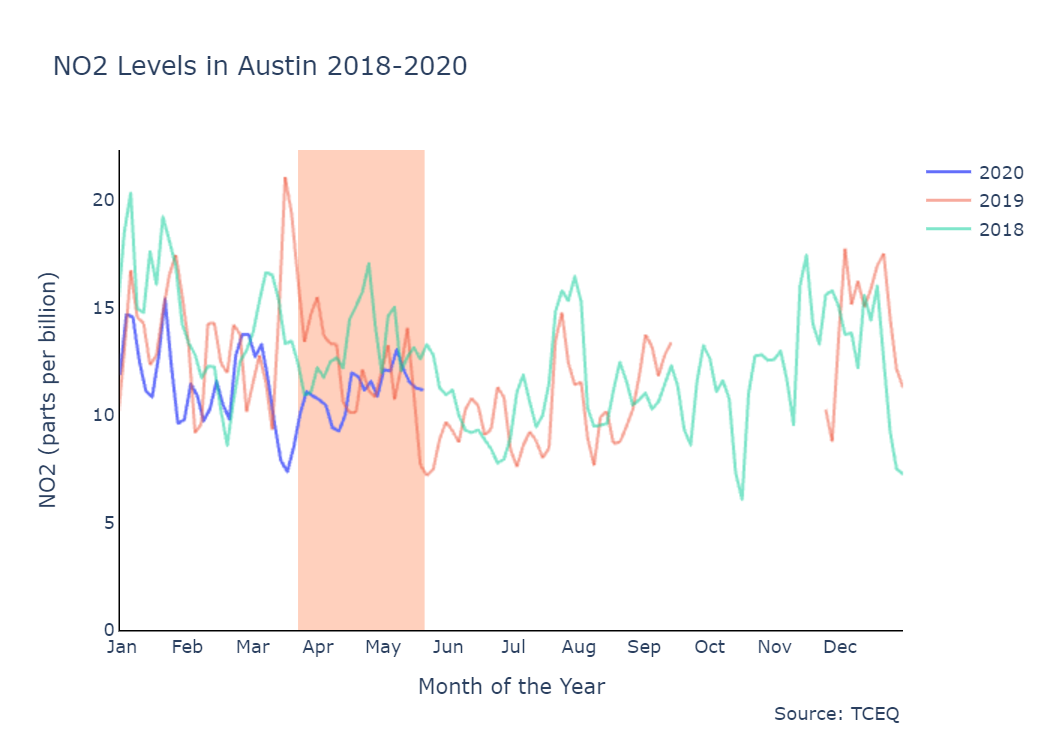
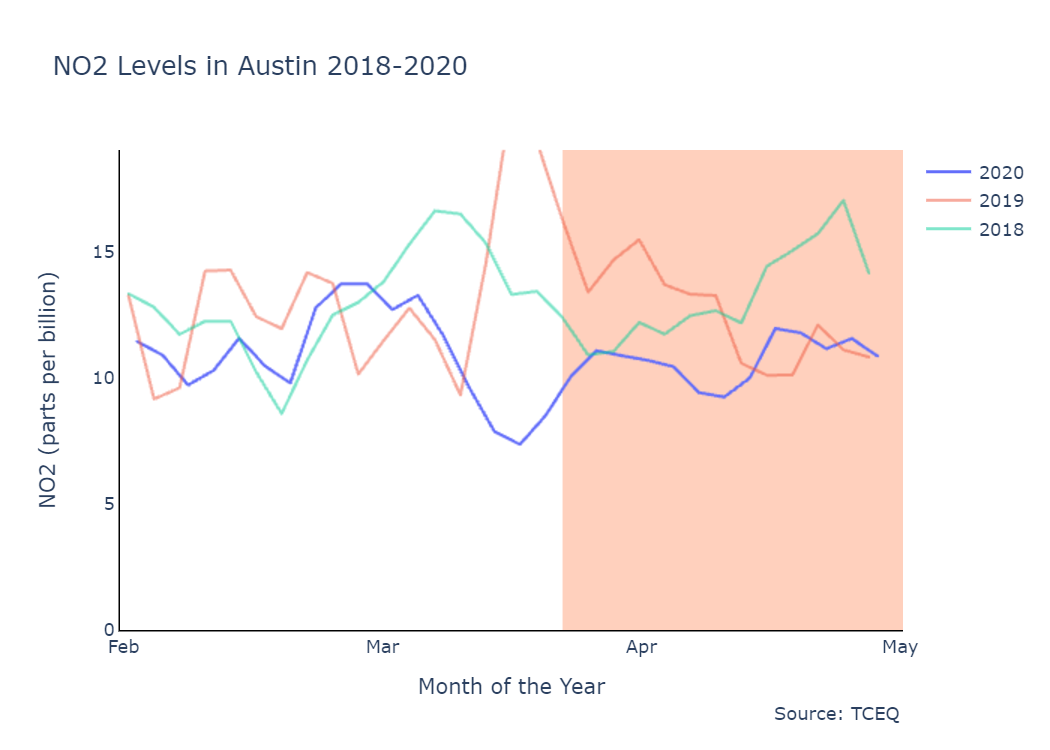
Update timeframe

diff --git a/2020 Austin Air Quality Subplots.py b/2020 Austin Air Quality Subplots.py
@@ -58,10 +58,13 @@ def PA_PM_plot(root):
     column = 'Corrected PM 2.5 (ug/m3)'
     return process_data(pd.read_csv(f'{root}/2020 PurpleAir PM 2.5 corrected.csv'), column)
 
-def add_subplot_trace(fig, df, column, name=None, num=1):
+def add_subplot_trace(fig, dataset, column, name=None, num=1):
     if name is None:
         name=column
-    fig.add_trace(go.Scattergl(x=df.index, y=df[column],
+    dataset = dataset[dataset.index >= '2020-02-01 00:00:00-06:00']
+    dataset = dataset[dataset.index < '2020-05-01 00:00:00-06:00']
+        
+    fig.add_trace(go.Scattergl(x=dataset.index, y=dataset[column],
                                mode='lines', name=name), row=num, col=1)
 
 def highlight_covid(fig):
